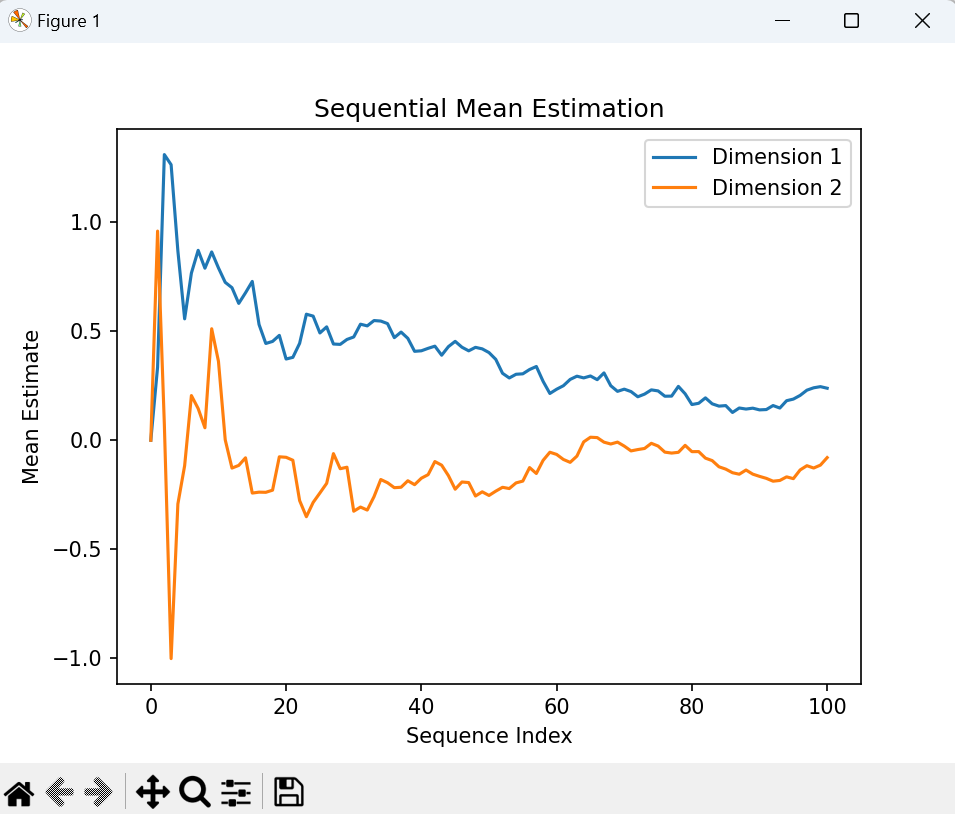
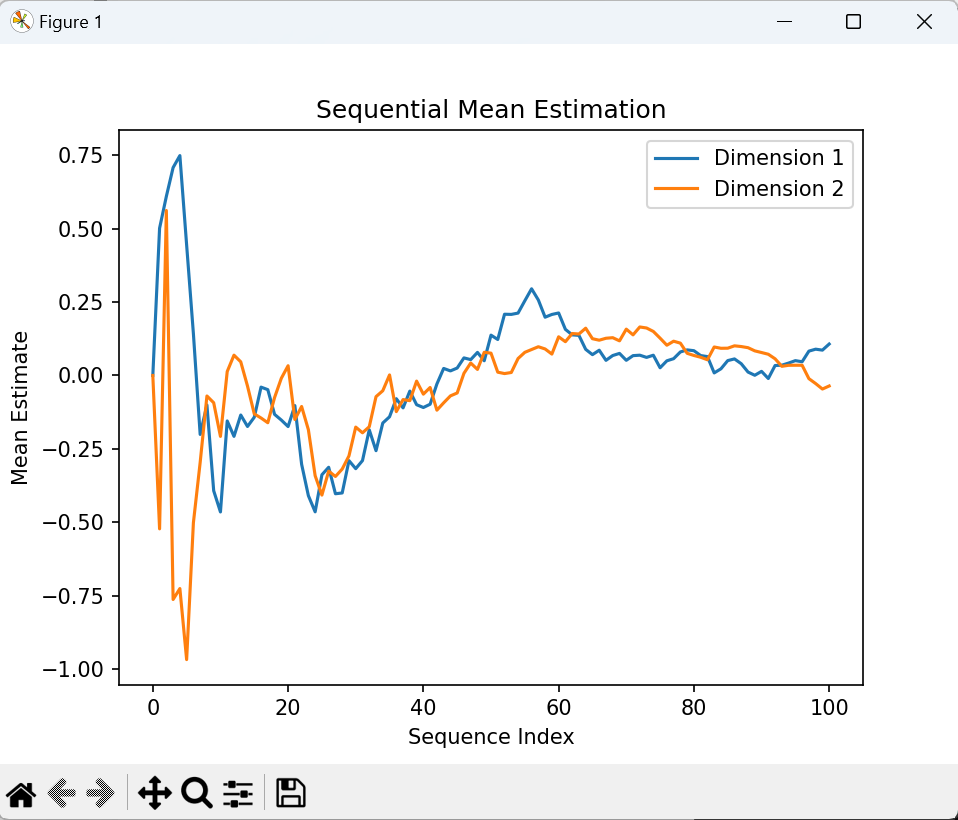
mod final submition
minor fix

diff --git a/01_sequential_estimation/template.py b/01_sequential_estimation/template.py
@@ -1,7 +1,7 @@
 import numpy as np
 import matplotlib.pyplot as plt
 
-# Author: Arnar Ingi Njardarson
+# Author: Arnar Njarðarson
 # Date:
 # Project: 
 # Acknowledgements: 
@@ -49,8 +49,6 @@ def _plot_sequence_estimate():
     plt.legend()
     plt.show()
 
-
-
 def _square_error(y, y_hat):
     return (y - y_hat) ** 2
 
@@ -75,27 +73,32 @@ def _plot_mean_square_error():
 
 
 if __name__ == "__main__":
-    np.random.seed(1234)
+    # SECTION 1: EXAMPLES
+
     # Example 1: Small dataset
+    np.random.seed(1234)
     example1 = gen_data(2, 3, np.array([0, 1, -1]), 1.3)
     print("Example 1 output:")
     print(example1)
     print("\n")
 
-    np.random.seed(1234)
     # Example 2: Larger dataset
+    np.random.seed(1234)
     example2 = gen_data(5, 1, np.array([0.5]), 0.5)
     print("Example 2 output:")
     print(example2)
     print("\n")
-    
+
+    # SECTION 3
     np.random.seed(1234)  # Set seed for reproducibility
-    X = gen_data(10, 2, np.array([0, 0]), 1)  # 10 2-dimensional points
+    X = gen_data(300, 2, np.array([-1, 2]), 2)
     mean = np.mean(X, 0)  # Calculate the initial mean of the generated data
     new_x = gen_data(1, 2, np.array([0, 0]), 1)
     updated_mean = update_sequence_mean(mean, new_x, X.shape[0] + 1)
     
     print("Updated mean:", updated_mean)
 
+    # SECTION 4
     _plot_sequence_estimate()
+    # SECTION 5
     _plot_mean_square_error()
